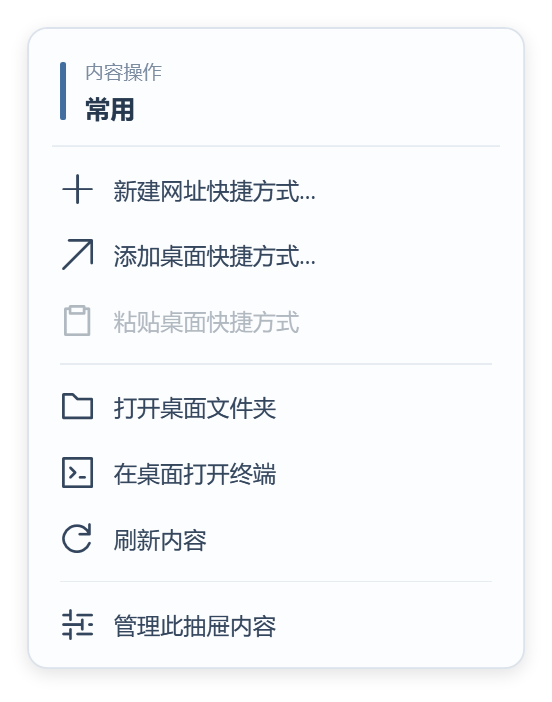
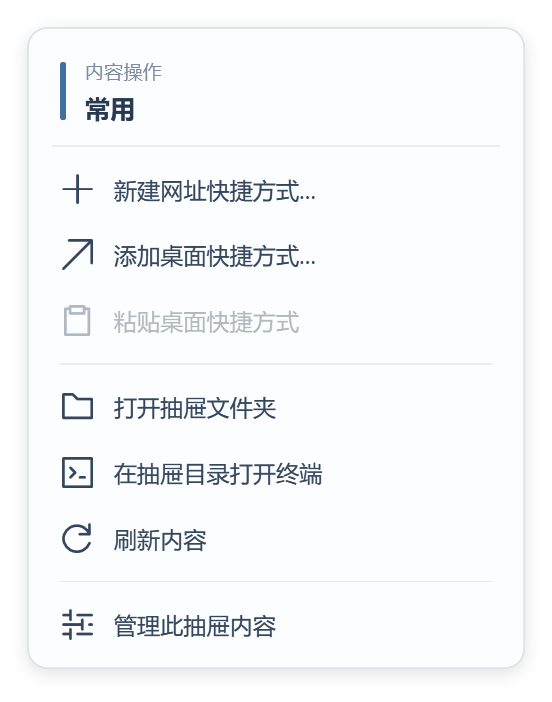
fix: open folder and terminal in the current drawer directory

Changed region(s): [[0.2464, 0.6581, 0.5851, 0.688], [0.2772, 0.5684, 0.3696, 0.5983]]

diff --git a/src/DesktopGroups/App/StorageWindow.ContentActions.cs b/src/DesktopGroups/App/StorageWindow.ContentActions.cs
@@ -21,14 +21,23 @@ internal sealed partial class StorageWindow
         }, ready && ClipboardDesktopPaths(runtime).Length > 0);
         paste.ToolTip = "将剪贴板中的个人桌面 .lnk / .url 收纳到此抽屉"; menu.Items.Add(paste);
         menu.Items.Add(new Separator { Style = (Style)menu.FindResource(typeof(Separator)) });
-        menu.Items.Add(DrawerAction(menu, runtime, "directory", "打开桌面文件夹", "Location", () =>
-            Process.Start(new ProcessStartInfo(runtime.Row.Store.DesktopPath) { UseShellExecute = true })));
-        menu.Items.Add(DrawerAction(menu, runtime, "terminal", "在桌面打开终端", "Terminal", () =>
-            Process.Start(new ProcessStartInfo("cmd.exe") { WorkingDirectory = runtime.Row.Store.DesktopPath, UseShellExecute = true })));
+        var directory = DrawerAction(menu, runtime, "directory", "打开抽屉文件夹", "Location", () =>
+            Process.Start(DrawerLocationStartInfo(runtime.Definition.Id, terminal: false)));
+        directory.ToolTip = runtime.Row.Store.DirectoryPath; menu.Items.Add(directory);
+        var terminal = DrawerAction(menu, runtime, "terminal", "在抽屉目录打开终端", "Terminal", () =>
+            Process.Start(DrawerLocationStartInfo(runtime.Definition.Id, terminal: true)));
+        terminal.ToolTip = runtime.Row.Store.DirectoryPath; menu.Items.Add(terminal);
         menu.Items.Add(DrawerAction(menu, runtime, "refresh", "刷新内容", "Refresh", () => _ = RefreshDrawerContentsAsync(runtime), ready));
         menu.Items.Add(new Separator { Style = (Style)menu.FindResource(typeof(Separator)) });
         menu.Items.Add(DrawerAction(menu, runtime, "manage", "管理此抽屉内容", "Manage", () => OpenDrawerContents(runtime)));
         ShowDrawerActionMenu(menu, runtime);
+    }
+    internal ProcessStartInfo DrawerLocationStartInfo(string drawerId, bool terminal)
+    {
+        var directory = runtimes[drawerId].Row.Store.DirectoryPath;
+        Directory.CreateDirectory(directory);
+        return new ProcessStartInfo(terminal ? Path.Combine(Environment.GetFolderPath(Environment.SpecialFolder.System), "cmd.exe") : directory)
+            { WorkingDirectory = directory, UseShellExecute = true };
     }
     private string[] ClipboardDesktopPaths(DrawerRuntime runtime)
     {

diff --git a/tests/DesktopGroups.Tests/ManagerChecks.cs b/tests/DesktopGroups.Tests/ManagerChecks.cs
@@ -119,6 +119,17 @@ internal static class ManagerChecks
                     "native blank right-click opens content actions instead of title appearance settings");
                 SaveMenuPreview(contentMenu, storage.Resolve("drawer-content-menu.png"));
                 contentMenu.IsOpen = false;
+                var drawerDirectory = window.Catalog.Stores["default"].DirectoryPath;
+                var folderStart = window.DrawerLocationStartInfo("default", terminal: false);
+                var terminalStart = window.DrawerLocationStartInfo("default", terminal: true);
+                Check(folderStart.FileName == drawerDirectory && folderStart.WorkingDirectory == drawerDirectory && folderStart.UseShellExecute,
+                    "open drawer folder targets its own storage directory instead of the desktop");
+                Check(Path.GetFileName(terminalStart.FileName) == "cmd.exe" && terminalStart.WorkingDirectory == drawerDirectory && terminalStart.UseShellExecute,
+                    "drawer terminal starts in that drawer directory without shell-interpolated path arguments");
+                var otherDrawer = window.Catalog.Stores.First(pair => pair.Key != "default");
+                Check(window.DrawerLocationStartInfo(otherDrawer.Key, terminal: true).WorkingDirectory == otherDrawer.Value.DirectoryPath
+                    && otherDrawer.Value.DirectoryPath != drawerDirectory && Directory.Exists(otherDrawer.Value.DirectoryPath),
+                    "directory actions stay scoped to the pointed drawer and ensure its directory exists");
                 var oldClipboard = Clipboard.GetDataObject();
                 try
                 {

diff --git a/src/DesktopGroups/Storage/ShortcutStore.cs b/src/DesktopGroups/Storage/ShortcutStore.cs
@@ -45,6 +45,7 @@ internal sealed class ShortcutStore
     public ShortcutProfile Profile { get; private set; }
     public IReadOnlyList<StoredShortcut> Active => Profile.Entries.Where(entry => (entry.Phase is "Stored" or "Updating") && File.Exists(StoredPath(entry))).ToArray();
     public string DesktopPath => desktop;
+    public string DirectoryPath => storage.Resolve(storeRelative);
     public event Action? Changed;
 
     public ShortcutStore(AppStorage storage, string? desktop = null, string profileRelative = "config/groups/default.json", string storeRelative = "storage/default")

diff --git a/docs/release-notes.md b/docs/release-notes.md
@@ -1,34 +1,27 @@
 # 当前发布说明
 
-## 栖格 Qige 0.1.0-beta.13
+## 栖格 Qige 0.1.0-beta.14
 
-Windows 11 x64 修复预发布版。[下载安装包与便携 ZIP](https://github.com/LaoQiTX/Qige/releases/tag/v0.1.0-beta.13)。
+Windows 11 x64 修复预发布版。[下载安装包与便携 ZIP](https://github.com/LaoQiTX/Qige/releases/tag/v0.1.0-beta.14)。
 
 ### 本次更新
 
-- 重设计抽屉菜单，统一线条图标、分组、悬停和键盘焦点；展开方式与图标间距移入二级菜单。
-- 标题“···”/标题右键是抽屉设置，图标右键是单项操作，内容空白右键是内容操作。
-- 内容菜单支持新建网址、添加/粘贴个人桌面快捷方式、打开桌面文件夹、在桌面打开终端、刷新及管理当前抽屉。工作台内容标题下增加添加、新建网址和刷新；新建网址拒绝同名覆盖及不支持的网址格式。
-
-- 工作台失效入口直接提供“移除失效记录”，明确显示“文件已不存在”，禁用无效的打开和归还操作。确认后仅移除分组成员，保留历史元数据及副本；重新出现的文件、待处理副本与离线目录继续受到保护。
-- 沙盘不再用占位图标展示确认缺失的入口，卡片标出失效数量；清理后内容列表、预览和恢复提示一起更新。
-- 双击沙盘抽屉卡片，包括标题和图标预览，打开该抽屉的工作台内容，清除旧搜索；双击空白区域不跳转。
-- 悬停模式下点击标题按钮或双击标题只临时展开/折叠，不再永久切换手动模式。临时折叠保持至鼠标离开，下次移入继续展开。需要持续手动控制时，在设置菜单选择“手动展开 / 折叠”。
+- 抽屉空白处右键选择“打开抽屉文件夹”，进入当前抽屉的实际收纳目录。
+- “在抽屉目录打开终端”以同一个抽屉目录作为工作目录，不再指向个人桌面。
+- 两个入口悬停显示完整路径；空抽屉按需创建自己的目录；不同抽屉分别定位。
 
 ### 下载与升级
 
 | 文件 | 用途 |
 | --- | --- |
-| `Qige-0.1.0-beta.13-setup-win-x64.exe` | 中文安装包 |
-| `Qige-0.1.0-beta.13-win-x64.zip` | 自带运行时的便携包 |
+| `Qige-0.1.0-beta.14-setup-win-x64.exe` | 中文安装包 |
+| `Qige-0.1.0-beta.14-win-x64.zip` | 自带运行时的便携包 |
 | 各自同名 `.sha256` | 下载校验 |
 
-退出旧版并保留、备份整个 `QigeData`，沿用原安装目录更新。已经在旧版被切到手动模式的抽屉，更新后先重新选择一次“悬停展开”；之后标题开合不会再改变该模式。
+退出旧版并保留、备份整个 `QigeData`，沿用原安装目录更新。
 
 ### 验证与边界
 
-新增回归覆盖菜单命中分流、二级菜单、剪贴板收纳、新建网址及同名保护、内容列表失效操作、预览过滤和即时刷新、沙盘卡片双击与空白区域不跳转、悬停和手动开合兼容性。详细结果见[验证说明](validation.md)。隔离检查不操作用户真实桌面文件，真实登录、多屏、休眠及长时间共存仍需[实机验收](stability-validation.md)。
+回归检查验证文件夹目标、终端工作目录及不同抽屉之间的隔离，不实际启动外部终端或 Explorer 窗口。详细结果见[验证说明](validation.md)。beta.13 发行 EXE 在自动执行环境的隔离目录启动检查曾报告目录不可写，本次目录修正不涉及该问题，实际 Windows 安装环境的启动验收仍待完成。
 
-失效记录由用户确认后移除，不自动丢弃恢复线索。备份仅支持创建时的原数据目录恢复；文件夹映射、普通文件/文件夹收纳等仍待实现。
-
-历史变化见 [CHANGELOG](../CHANGELOG.md)。
+抽屉目录目前包含托管快捷方式的内部子目录；文件夹映射、普通文件/文件夹收纳仍待实现。历史变化见 [CHANGELOG](../CHANGELOG.md)。

diff --git a/docs/roadmap.md b/docs/roadmap.md
@@ -4,7 +4,7 @@
 
 ## 下一轮版本与优先级
 
-2026-11-10 用户确认：后续继续 beta，不切回 alpha。当前版本为 `0.1.0-beta.13`；常规修复和增量功能继续递增 beta 编号，形成较大功能阶段时可调整为 `0.2.0-beta.1`，具体按实际范围选择。新增待办本身不触发版本号变更。
+2026-11-10 用户确认：后续继续 beta，不切回 alpha。当前版本为 `0.1.0-beta.14`；常规修复和增量功能继续递增 beta 编号，形成较大功能阶段时可调整为 `0.2.0-beta.1`，具体按实际范围选择。新增待办本身不触发版本号变更。
 
 每完成一个可发布的新版本，默认同步提交并推送 GitHub 代码、版本配置和文档，更新对应 GitHub Release，上传安装包、便携包及 SHA256，并确认 CI、标签、提交和附件一致。此约定持续适用，不必每个版本重新询问是否推送；未完成的日常修改不等同于发布新版本。执行细则见[开发说明](development.md#版本与推送约定)。
 
@@ -87,7 +87,7 @@ beta.11 已完成自动备份与恢复第一批及抽屉菜单。接下来的 be
 - [x] 抽屉支持手动展开与折叠，可点击按钮或双击折叠抽屉切换状态。
 - [x] 折叠抽屉拖到屏幕底部后，若下方可用高度不足以容纳完整展开高度，自动改为从下向上展开。
 - [x] 缩小抽屉内图标的横向间隔，改善相同宽度下的容纳数量；以其他工具同宽可放 5～6 个图标为体验参照，提供“紧凑 / 标准 / 宽松”布局密度选项。
-- [x] 空白处右键内容菜单：beta.13 提供个人桌面目录/终端、添加与粘贴桌面快捷方式、新建网址及刷新；普通文件新建与映射目录操作仍待相应能力。
+- [x] 空白处右键内容菜单：beta.13 提供添加与粘贴桌面快捷方式、新建网址及刷新；beta.14 的目录/终端定位到当前抽屉；普通文件新建与映射目录操作仍待相应能力。
 - [x] 管理面板底部持续展示当前应用版本号。
 - [ ] 组内排序、框选多选、批量操作。
 - [ ] 完整 Explorer 原生右键扩展菜单；当前已有应用内单项菜单及系统属性入口。
@@ -98,5 +98,7 @@ beta.11 已完成自动备份与恢复第一批及抽屉菜单。接下来的 be
 ## 有限样式定制
 
 颜色、透明度、圆角、标题栏、图标尺寸等受控定制列为 P1，分批实现，不等待完整普通文件层。当前不引入任意 CSS、脚本或第三方主题执行机制。
+
+- [ ] 配色模式支持“亮色（白色） / 暗色（黑色） / 跟随系统”，可在设置中主动选择并保存；覆盖管理面板、抽屉与右键菜单。选择跟随系统时响应 Windows 主题变化，手动选择时保持用户设置。
 
 样式参数开放后，接入现有“同步到全部抽屉”，允许勾选同步范围，不复制抽屉内容或几何布局。

diff --git a/docs/validation.md b/docs/validation.md
@@ -1,6 +1,6 @@
 # 验证说明
 
-当前测试版为 0.1.0-beta.13。功能实现、自动回归和真实系统验收分别记录，避免将模拟通过理解为所有电脑上已稳定。
+当前测试版为 0.1.0-beta.14。功能实现、自动回归和真实系统验收分别记录，避免将模拟通过理解为所有电脑上已稳定。
 
 beta.9 的稳定性修改、可重复的实机操作步骤与记录表见[稳定性验收](stability-validation.md)。
 
@@ -27,6 +27,8 @@ beta.9 的稳定性修改、可重复的实机操作步骤与记录表见[稳定
 右下角回归从可见斜线的 12 DIP 内缩位置按下，验证同时调整宽高且锁定后拒绝调整。管理器回归补充：参数按字段选择、取消与空选择、多目标应用、保存后重载、保持独立布局与内容、忙碌时拒绝同步；图标右键命中、悬停保持、锁定与托盘隐藏状态下可用、忙碌时禁用文件操作、单项归还及旧菜单重复操作保护。右键归还仅使用隔离样例；打开外部程序、Explorer 和系统属性窗口仍需发行候选版人工确认。
 
 ## 本机结果
+
+2026-11-16，beta.14：Release 构建 0 警告、0 错误，管理面板 106 项通过。新增检查验证打开文件夹的目标、终端工作目录及不同抽屉的目录隔离，按需创建目录；不启动外部 Explorer 或终端。首次完整检查因系统剪贴板临时占用（OpenClipboard 0x800401D0）在恢复剪贴板时中断，重跑完整通过。已更新内容菜单截图。基础与原生抽屉交互沿用 beta.13 结果，本次未重复运行；发行 EXE 启动的目录写入限制仍待实机验收。
 
 2026-11-16，beta.13：Release 构建 0 警告、0 错误，基础与备份 179 项、管理面板 103 项通过，原生抽屉渲染回归通过。新增覆盖标题/图标/内容空白处菜单分流、二级弹层实际可见、剪贴板支持范围与验证收纳、新建网址/冲突与路径校验、工作台工具栏、行内失效清理、沙盘预览过滤与双击对应抽屉、空白不跳转、旧搜索清除，以及悬停模式在标题按钮/双击操作后继续自动开合。确认持续手动模式不受鼠标移入移出影响，120 次移动仍不重建位图。
 

diff --git a/docs/user-guide.md b/docs/user-guide.md
@@ -2,11 +2,11 @@
 
 栖格通过桌面抽屉整理个人桌面快捷方式。当前版本支持 Windows 11 x64 和个人桌面根目录的 `.lnk`、`.url`，每个入口不超过 4 MB。
 
-本指南对应 0.1.0-beta.13，包含抽屉设置菜单、手动折叠、图标密度与自动备份恢复。
+本指南对应 0.1.0-beta.14，包含抽屉设置菜单、手动折叠、图标密度与自动备份恢复。
 
 ## 安装与首次使用
 
-在 [Releases](https://github.com/LaoQiTX/Qige/releases/tag/v0.1.0-beta.13) 选择安装包或便携 ZIP，两者均自带 .NET 运行时。
+在 [Releases](https://github.com/LaoQiTX/Qige/releases/tag/v0.1.0-beta.14) 选择安装包或便携 ZIP，两者均自带 .NET 运行时。
 
 - **安装包**：选择固定、可写目录，完成后从开始菜单启动。开始菜单同时提供数据文件夹入口。
 - **便携包**：完整解压后运行 `Qige.exe`。不要在压缩包内直接运行，也不要只复制 EXE。
@@ -66,7 +66,7 @@
 - 新建网址快捷方式：填写名称及 http / https 网址，创建后直接收纳到当前抽屉；同名文件或成员不覆盖。
 - 添加桌面快捷方式：选择个人桌面根目录的 `.lnk` / `.url`。
 - 粘贴桌面快捷方式：读取剪贴板中的上述文件并收纳；空剪贴板、普通文件或其他目录内容会禁用此项，不进行隐式移动或复制。
-- 打开桌面文件夹、在桌面打开终端：目录为当前用户的个人桌面，菜单明确显示位置，不进入内部收纳历史目录。
+- 打开抽屉文件夹、在抽屉目录打开终端：两者均定位到当前抽屉的实际收纳目录（QigeData/storage/<抽屉 ID>），悬停可查看完整路径。终端以该目录作为工作目录；空抽屉会先创建目录。
 - 刷新内容、管理此抽屉内容：检查当前抽屉或进入对应工作台。
 
 工作台内容标题下也提供“添加快捷方式”“新建网址”和“刷新”；操作针对当前选中的抽屉。普通文本文件、文件夹收纳及撤销/重做仍未支持，不提供无效按钮。

diff --git a/docs/development.md b/docs/development.md
@@ -63,8 +63,8 @@ Qige.slnx                      解决方案
 ## 发布与素材
 
 ```powershell
-.\publish.ps1 -Version 0.1.0-beta.13
-.\publish.ps1 -Version 0.1.0-beta.13 -Installer
+.\publish.ps1 -Version 0.1.0-beta.14
+.\publish.ps1 -Version 0.1.0-beta.14 -Installer
 pwsh -STA -File scripts/build-brand.ps1
 ```
 
@@ -76,7 +76,7 @@ pwsh -STA -File scripts/build-brand.ps1
 
 2026-11-10 用户明确要求，后续持续按以下约定执行：
 
-- 继续使用 beta，不切回 alpha。小步修复和增量功能递增 beta 编号；较大功能阶段可按范围调整次版本号，例如 `0.2.0-beta.1`。当前版本为 `0.1.0-beta.13`，不为单纯记录计划发布空版本。
+- 继续使用 beta，不切回 alpha。小步修复和增量功能递增 beta 编号；较大功能阶段可按范围调整次版本号，例如 `0.2.0-beta.1`。当前版本为 `0.1.0-beta.14`，不为单纯记录计划发布空版本。
 - 每完成一个可发布的新版本，默认提交并推送 GitHub 代码、版本与文档，同时创建对应 GitHub Release，附安装包、便携 ZIP 和各自 SHA256。已有用户授权，无需每个版本重新询问是否推送或发布。
 - 发布前完成适用检查；版本、源码提交、标签与打包内容保持一致，确认 GitHub CI 和远端附件校验。beta Release 继续标记为预发布，不覆盖既有发行附件。
 - 日常未完成修改不视为新版本。用户另有版本、发布范围或暂停指示时，以当次指示为准。

diff --git a/README.md b/README.md
@@ -13,7 +13,7 @@
 </p>
 
 <p align="center">
-  <a href="https://github.com/LaoQiTX/Qige/releases/tag/v0.1.0-beta.13">下载 beta.13</a> ·
+  <a href="https://github.com/LaoQiTX/Qige/releases/tag/v0.1.0-beta.14">下载 beta.14</a> ·
   <a href="docs/user-guide.md">使用指南</a> ·
   <a href="docs/README.md">项目文档</a> ·
   <a href="docs/roadmap.md">开发计划</a> ·
@@ -24,7 +24,7 @@
 
 ## 看看栖格
 
-测试版 **0.1.0-beta.13** 重设计抽屉菜单并按标题、图标、空白处分流；支持工作台直接清理失效入口、沙盘双击编辑内容，修复手动开合后悬停失效，详见[本次更新](docs/release-notes.md)。
+测试版 **0.1.0-beta.14** 修正抽屉右键的文件夹与终端入口，两者均定位到当前抽屉的实际目录，详见[本次更新](docs/release-notes.md)。
 
 把快捷方式拖进抽屉，按工作、娱乐或自己的习惯分组。抽屉可以自由摆放、调整大小、吸附对齐，也能折叠成标题条，在鼠标移入时展开。
 
@@ -72,7 +72,7 @@
 
 ## 下载与开始使用
 
-从 **[GitHub Releases](https://github.com/LaoQiTX/Qige/releases/tag/v0.1.0-beta.13)** 下载 Windows x64 版本：
+从 **[GitHub Releases](https://github.com/LaoQiTX/Qige/releases/tag/v0.1.0-beta.14)** 下载 Windows x64 版本：
 
 | 版本 | 使用方式 |
 | --- | --- |

diff --git a/docs/release-readiness.md b/docs/release-readiness.md
@@ -1,6 +1,6 @@
 # 最小正式版就绪评估
 
-评估日期：2026-11-16。当前测试版为 beta.13，新增抽屉设置菜单、手动开合、底部向上展开、图标密度、常驻版本号和自动备份恢复；本页记录最小稳定版仍需完成的门槛。
+评估日期：2026-11-16。当前测试版为 beta.14，已接入抽屉设置菜单、手动开合、底部向上展开、图标密度、常驻版本号和自动备份恢复；本页记录最小稳定版仍需完成的门槛。
 
 ## 最小范围
 
@@ -15,6 +15,8 @@ beta.12 修复卸载后缺失入口阻塞退出，增加显式失效记录清理
 beta.13 按操作对象重排抽屉菜单、工作台工具栏与失效清理入口，接入沙盘双击内容编辑，并修复悬停/手动开合兼容性。基础与备份 179 项、管理面板 103 项及原生抽屉渲染通过；完整管理器曾出现一次后台等待超时，后续两轮通过，长期环境验证仍不可省略。
 
 ## 仍需完成的四组门槛
+
+beta.14 修正右键目录与终端定位，管理面板 106 项通过，Release 构建零警告零错误；文件夹与终端的真实外部启动仍需实机确认。
 
 | 门槛 | 剩余工作 | 完成依据 |
 | --- | --- | --- |

diff --git a/docs/distribution.md b/docs/distribution.md
@@ -13,11 +13,11 @@
 ## 构建
 
 ```powershell
-.\publish.ps1 -Version 0.1.0-beta.13
-.\publish.ps1 -Version 0.1.0-beta.13 -Installer
+.\publish.ps1 -Version 0.1.0-beta.14
+.\publish.ps1 -Version 0.1.0-beta.14 -Installer
 
 # 指定已有编译器：
-.\publish.ps1 -Version 0.1.0-beta.13 -Installer -InnoSetupCompiler 'D:\Tools\InnoSetup\ISCC.exe'
+.\publish.ps1 -Version 0.1.0-beta.14 -Installer -InnoSetupCompiler 'D:\Tools\InnoSetup\ISCC.exe'
 ```
 
 默认构建 Release、自带运行时的 x64 包，关闭裁剪和单文件发布。发布编译正式项目，不包含测试与诊断程序。同版本目标已存在时拒绝覆盖。
@@ -39,7 +39,7 @@
 已有完整包时可单独构建：
 
 ```powershell
-.\scripts\build-installer.ps1 -PackageDirectory '.\artifacts\releases\Qige-0.1.0-beta.13-win-x64' -Version '0.1.0-beta.13'
+.\scripts\build-installer.ps1 -PackageDirectory '.\artifacts\releases\Qige-0.1.0-beta.14-win-x64' -Version '0.1.0-beta.14'
 ```
 
 安装采用当前用户权限。新安装默认在安装包所在盘的 `Qige` 文件夹，已有安装优先沿用原路径；向导允许修改，并显示数据目录。开始菜单包含程序和数据文件夹入口，桌面快捷方式可选。

diff --git a/docs/product-spec.md b/docs/product-spec.md
@@ -76,6 +76,8 @@
 
 有限样式定制列为下一轮 P1，分批支持颜色、透明度、圆角、标题和图标尺寸等受控选项，并复用参数选择同步；不承诺任意脚本或主题执行环境。
 
+配色模式待办：提供亮色（白色）、暗色（黑色）和跟随系统三种选择，统一覆盖管理面板、抽屉及右键菜单；保存手动偏好，跟随系统时响应 Windows 配色变化。
+
 ## 备份与迁移
 
 beta.11 已实现自动备份与恢复第一批，包含配置、成员与栖格实际托管快捷方式及历史副本的一致快照，提供保留策略、失败反馈和恢复验证。当前仅支持原数据目录恢复，正文上限 512 MB、20000 个文件。外部映射目录默认只保存关联，不自动复制全部外部内容。
